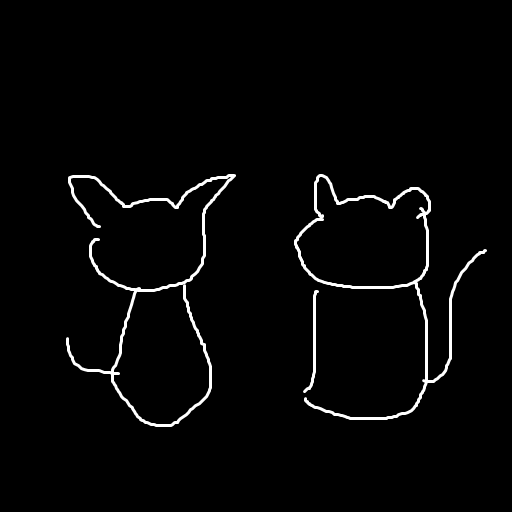
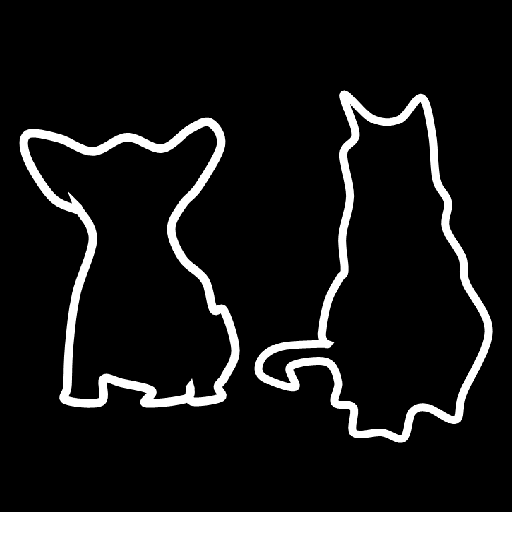
Update cat_dog sketch

diff --git a/Mix-of-Show/dataset_convert.py b/Mix-of-Show/dataset_convert.py
@@ -20,8 +20,8 @@ semantics = {
 
 all_region_prompts = {
 	"0": [
-		("A <cat2_1> <cat2_2> on the right.", '[168,280,424,508]'), 
-		("A <dog6_1> <dog6_2> on the left.", '[164,33,432,245]')
+		("A <cat2_1> <cat2_2> on the right.", '[84,263,446,512]'), 
+		("A <dog6_1> <dog6_2> on the left.", '[113,15,410,245]')
 		],
 	"1": [
 		("A <flower_1_1> <flower_1_2>.", "[77,152,383,287]"), 
